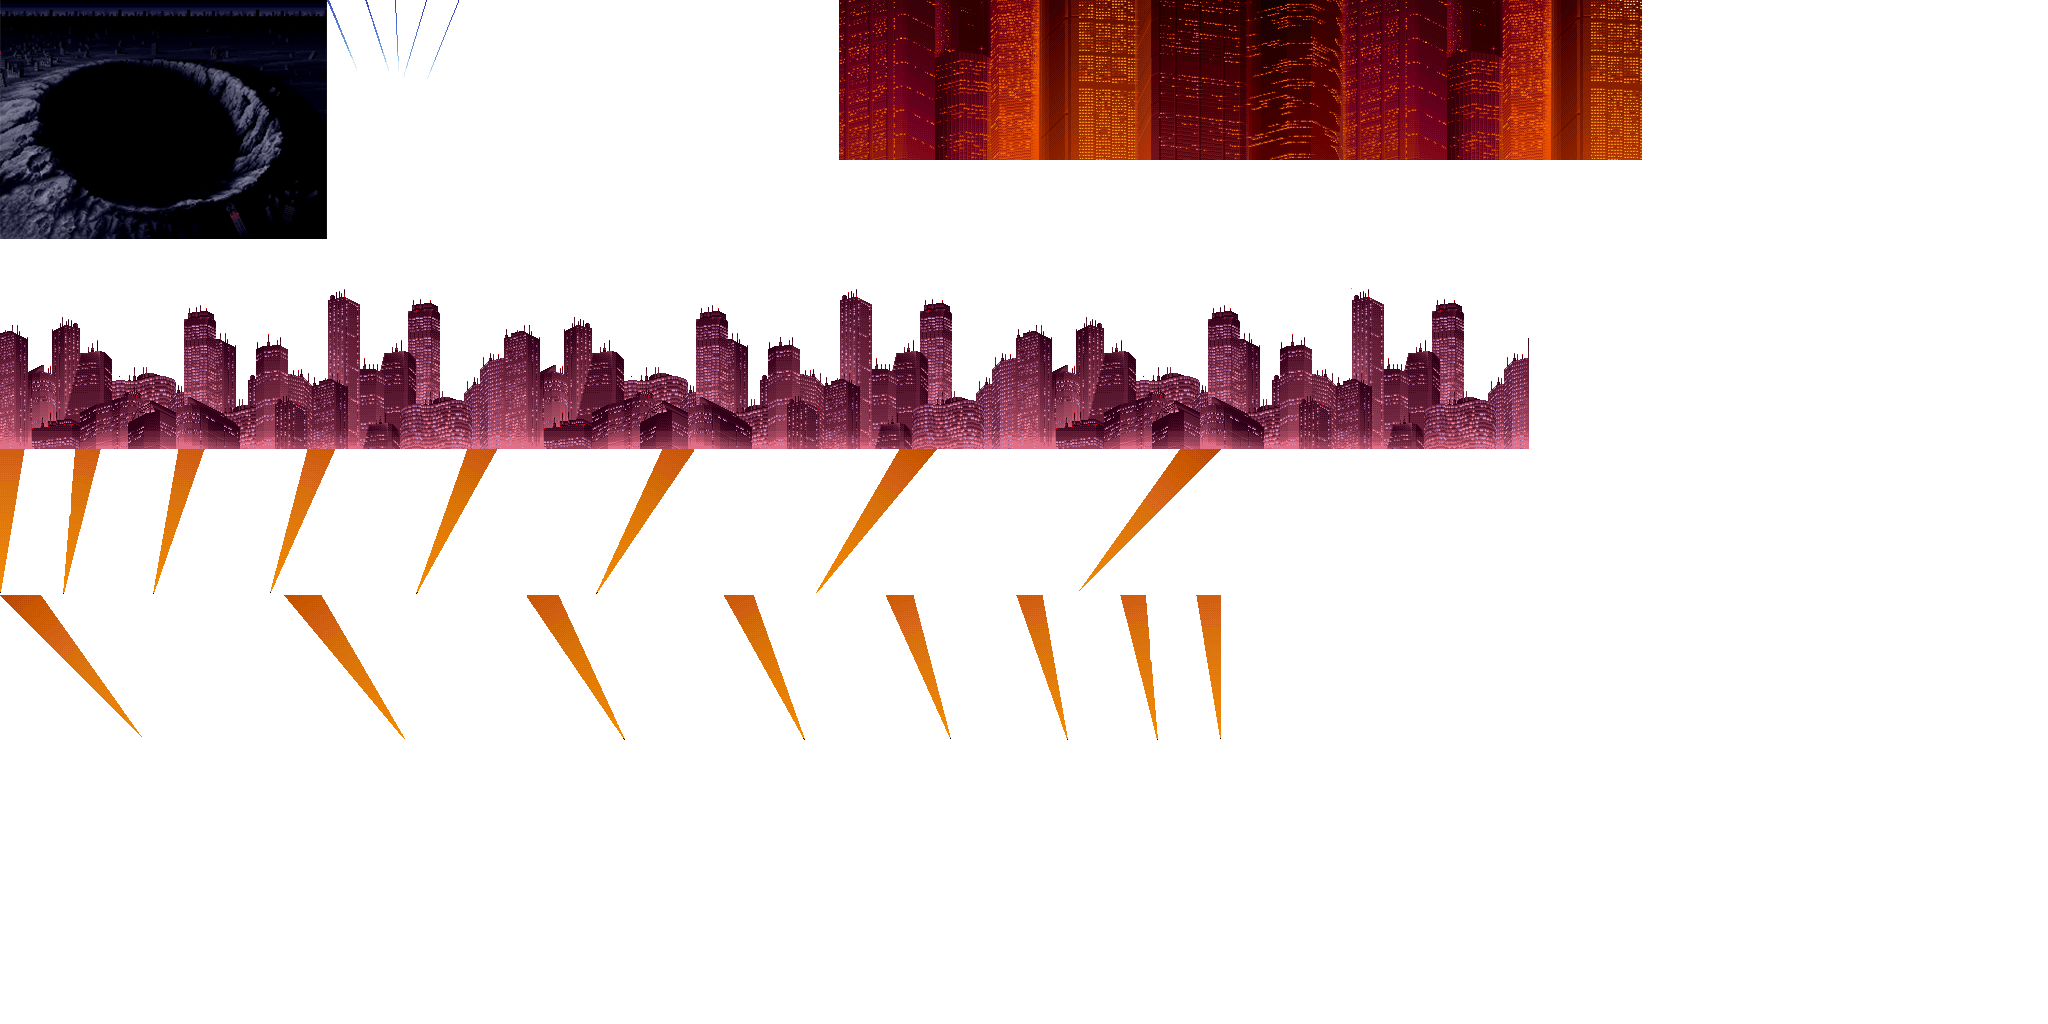
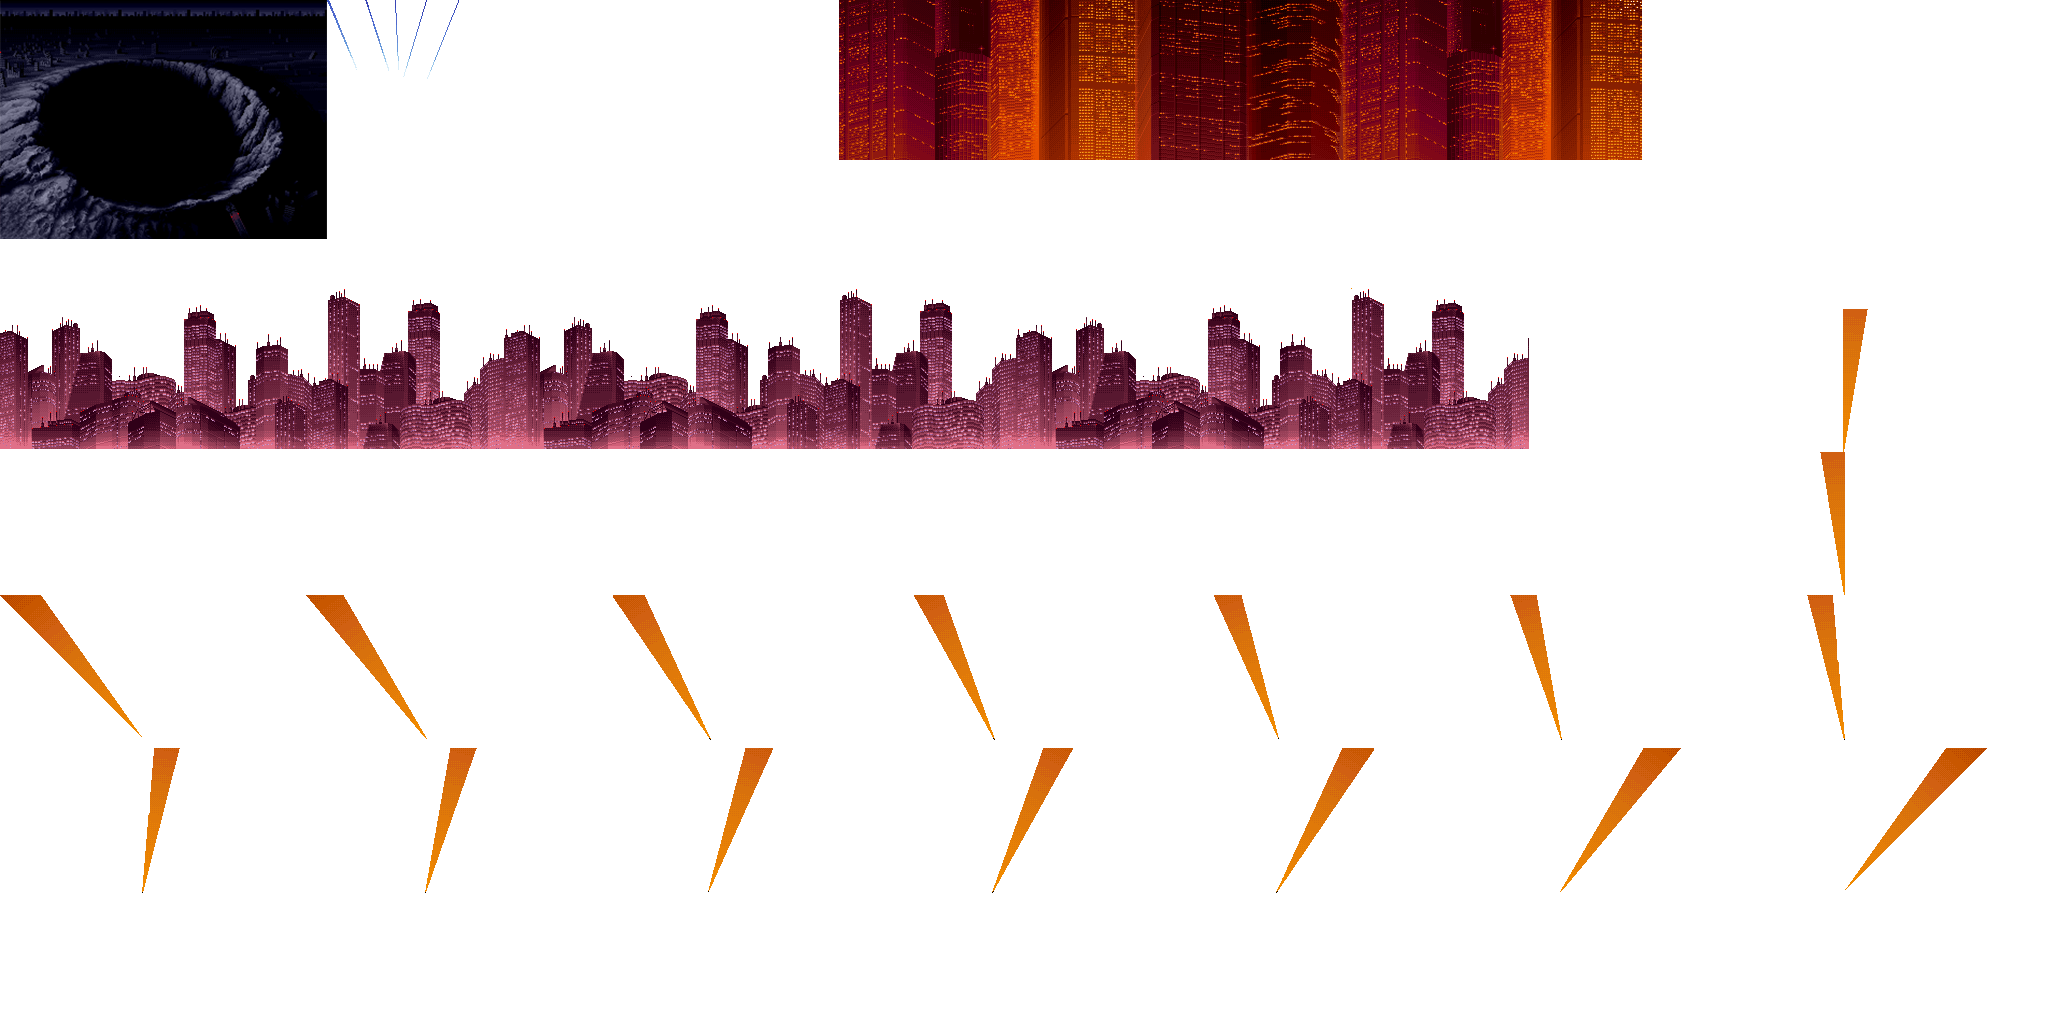
Made the background lights work (poorly)

diff --git a/Last Resort Prototype/ModuleBackground.cpp b/Last Resort Prototype/ModuleBackground.cpp
@@ -52,22 +52,36 @@ ModuleBackground::ModuleBackground()
 	light.speed = 0.1f;
 
 	backgroundLights.PushBack({ 0,595,284,144 });
-	backgroundLights.PushBack({ 284,595,243,144 });
-	backgroundLights.PushBack({ 527,595,197,144 });
-	backgroundLights.PushBack({ 724,595,162,144 });
-	backgroundLights.PushBack({ 886,595,130,144 });
-	backgroundLights.PushBack({ 1016,595,104,144 });
-	backgroundLights.PushBack({ 1120,595,76,144 });
-	backgroundLights.PushBack({ 1196,595,50,144 });
-	/*backgroundLights.PushBack({ ,,50,144 });
-	backgroundLights.PushBack({ ,,76,144 });
-	backgroundLights.PushBack({ ,,104,144 });
-	backgroundLights.PushBack({ ,,130,144 });
-	backgroundLights.PushBack({ ,,162,144 });
-	backgroundLights.PushBack({ ,,197,144 });
-	backgroundLights.PushBack({ ,,243,144 });
-	backgroundLights.PushBack({ ,,284,144 });*/
-	backgroundLights.speed = 0.12f;
+	/*backgroundLights.PushBack({ 284,595,284,144 });*/
+	backgroundLights.PushBack({ 568,595,284,144 });
+	/*backgroundLights.PushBack({ 852,595,284,144 });*/
+	backgroundLights.PushBack({ 1136,595,284,144 });
+	//backgroundLights.PushBack({ 1420,595,284,144 });
+	/*backgroundLights.PushBack({ 1704,595,284,144 });*/
+	backgroundLights.PushBack({ 1704,451,284,144 });
+	backgroundLights.PushBack({ 1704,309,284,144 });
+	backgroundLights.PushBack({ 0,748,284,144 });
+	backgroundLights.PushBack({ 284,748,284,144 });
+	backgroundLights.PushBack({ 568,748,284,144 });
+	backgroundLights.PushBack({ 852,748,284,144 });
+	backgroundLights.PushBack({ 1136,748,284,144 });
+	backgroundLights.PushBack({ 1420,748,284,144 });
+	backgroundLights.PushBack({ 1704,748,284,144 });
+	backgroundLights.PushBack({ 1420,748,284,144 });
+	backgroundLights.PushBack({ 1136,748,284,144 });
+	backgroundLights.PushBack({ 852,748,284,144 });
+	backgroundLights.PushBack({ 568,748,284,144 });
+	backgroundLights.PushBack({ 284,748,284,144 });
+	backgroundLights.PushBack({ 0,748,284,144 });
+	backgroundLights.PushBack({ 1704,309,284,144 });
+	/*backgroundLights.PushBack({ 1704,451,284,144 });*/
+	/*backgroundLights.PushBack({ 1704,595,284,144 });*/
+	backgroundLights.PushBack({ 1420,595,284,144 });
+	/*backgroundLights.PushBack({ 1136,595,284,144 });*/
+	backgroundLights.PushBack({ 852,595,284,144 });
+	/*backgroundLights.PushBack({ 568,595,284,144 });*/
+	backgroundLights.PushBack({ 284,595,284,144 });
+	backgroundLights.speed = 0.17f;
 
 }
 
